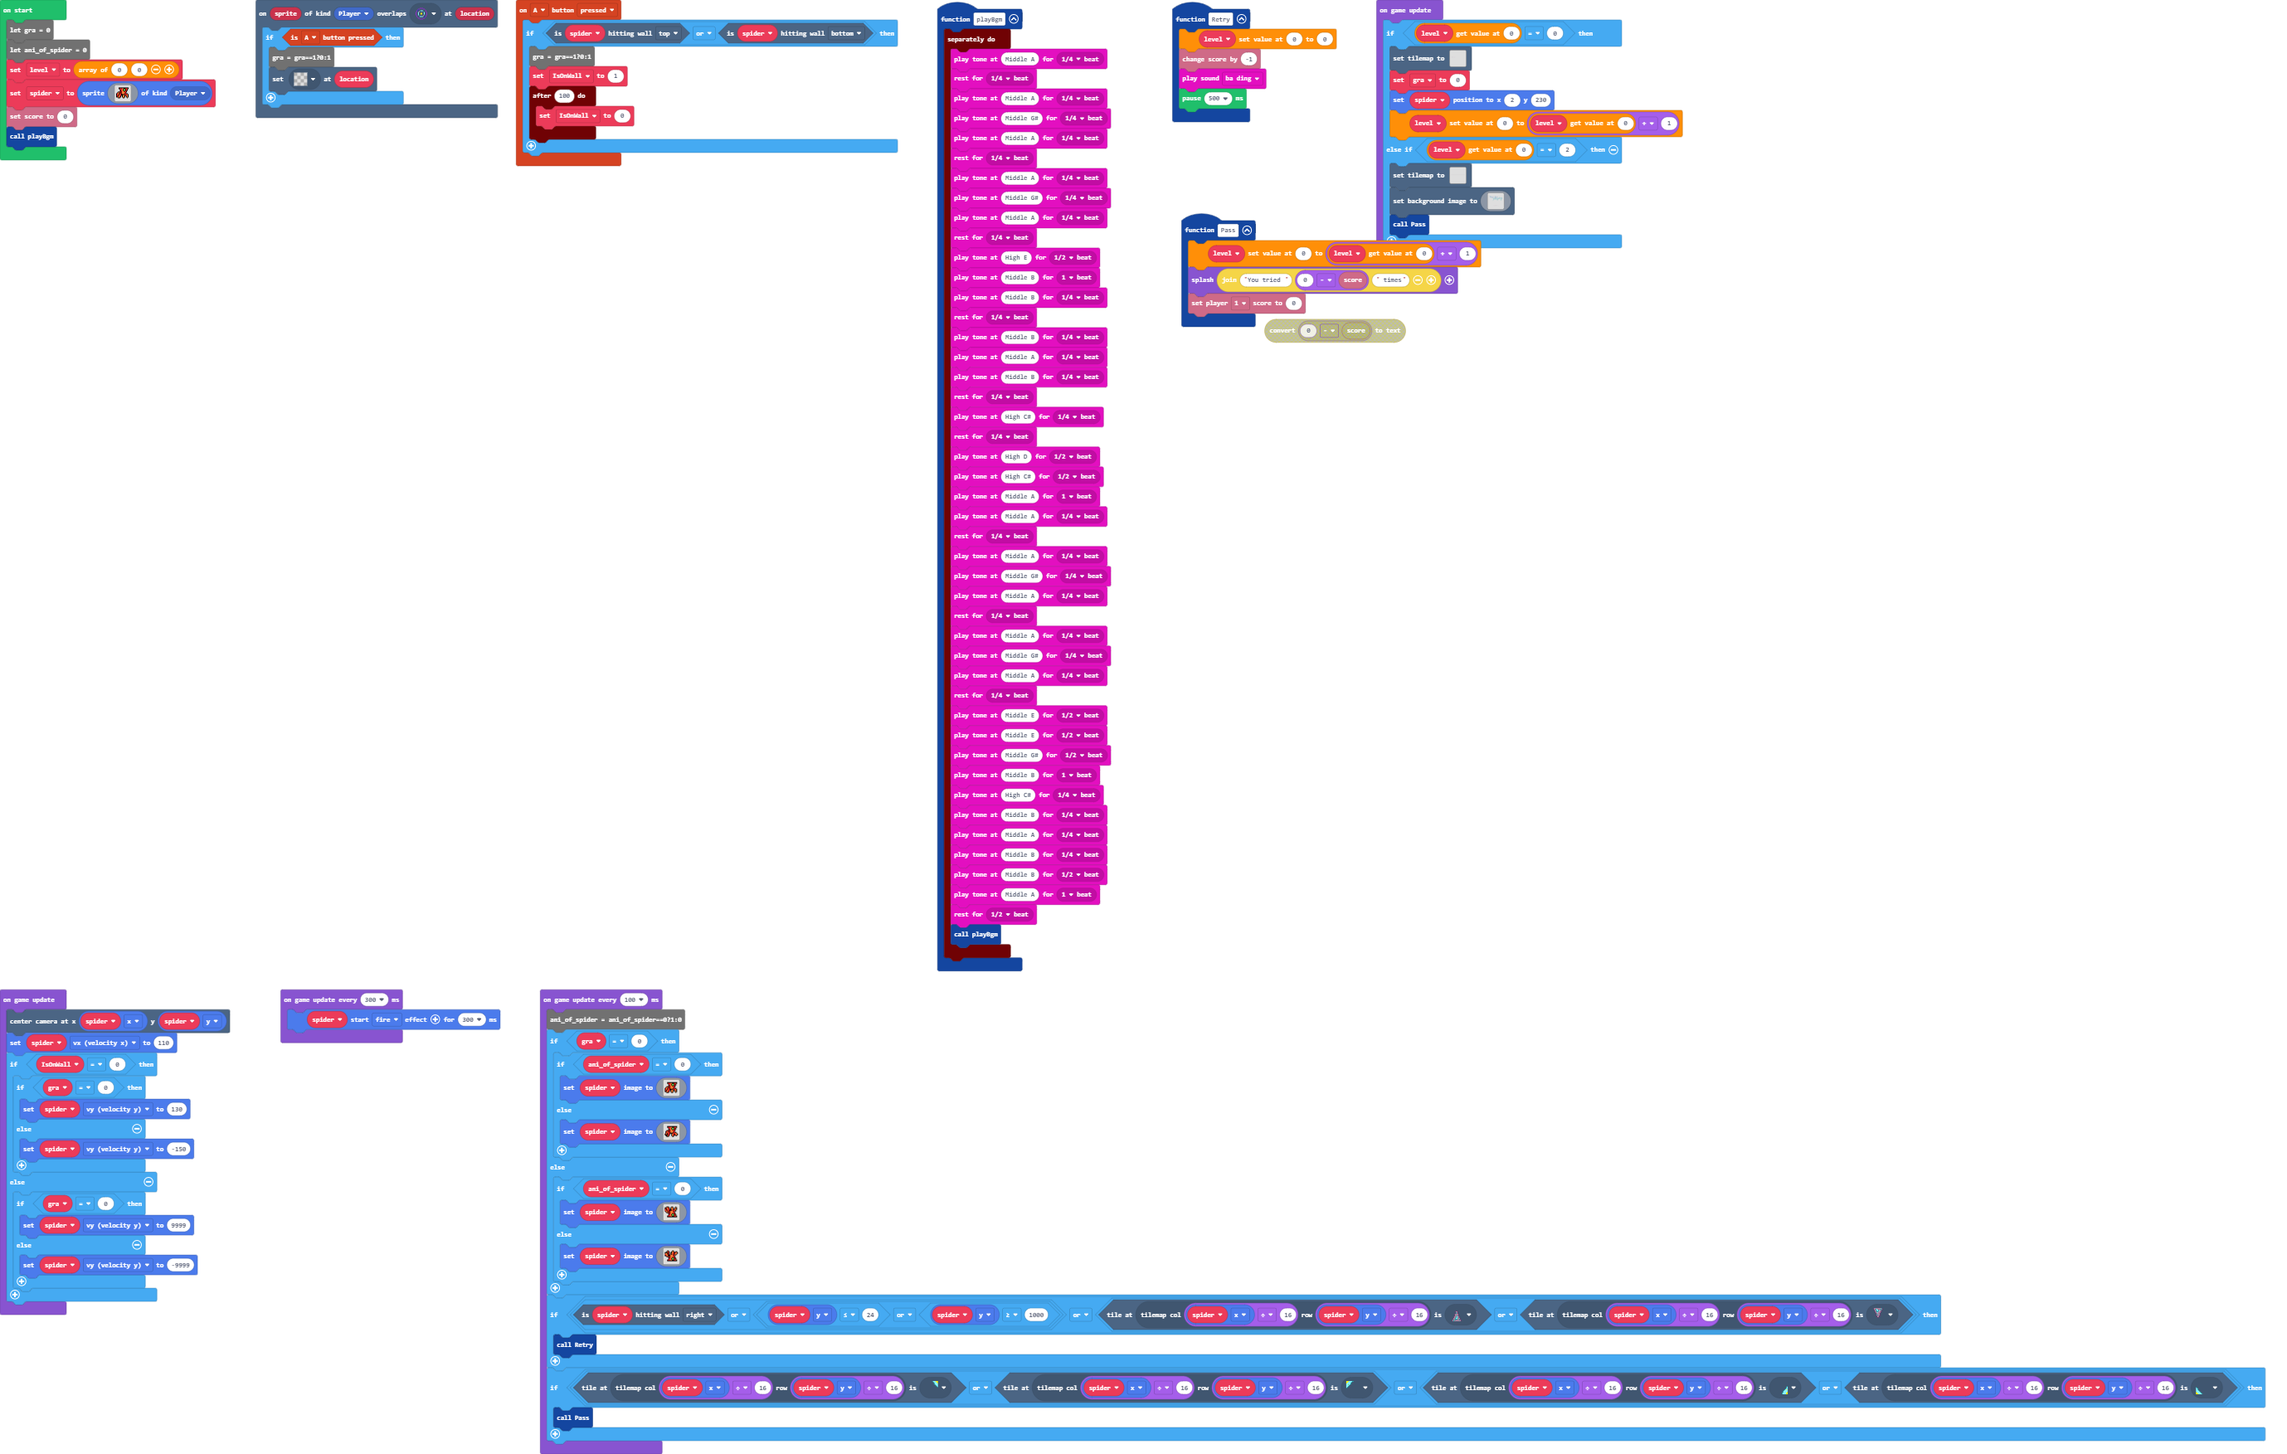
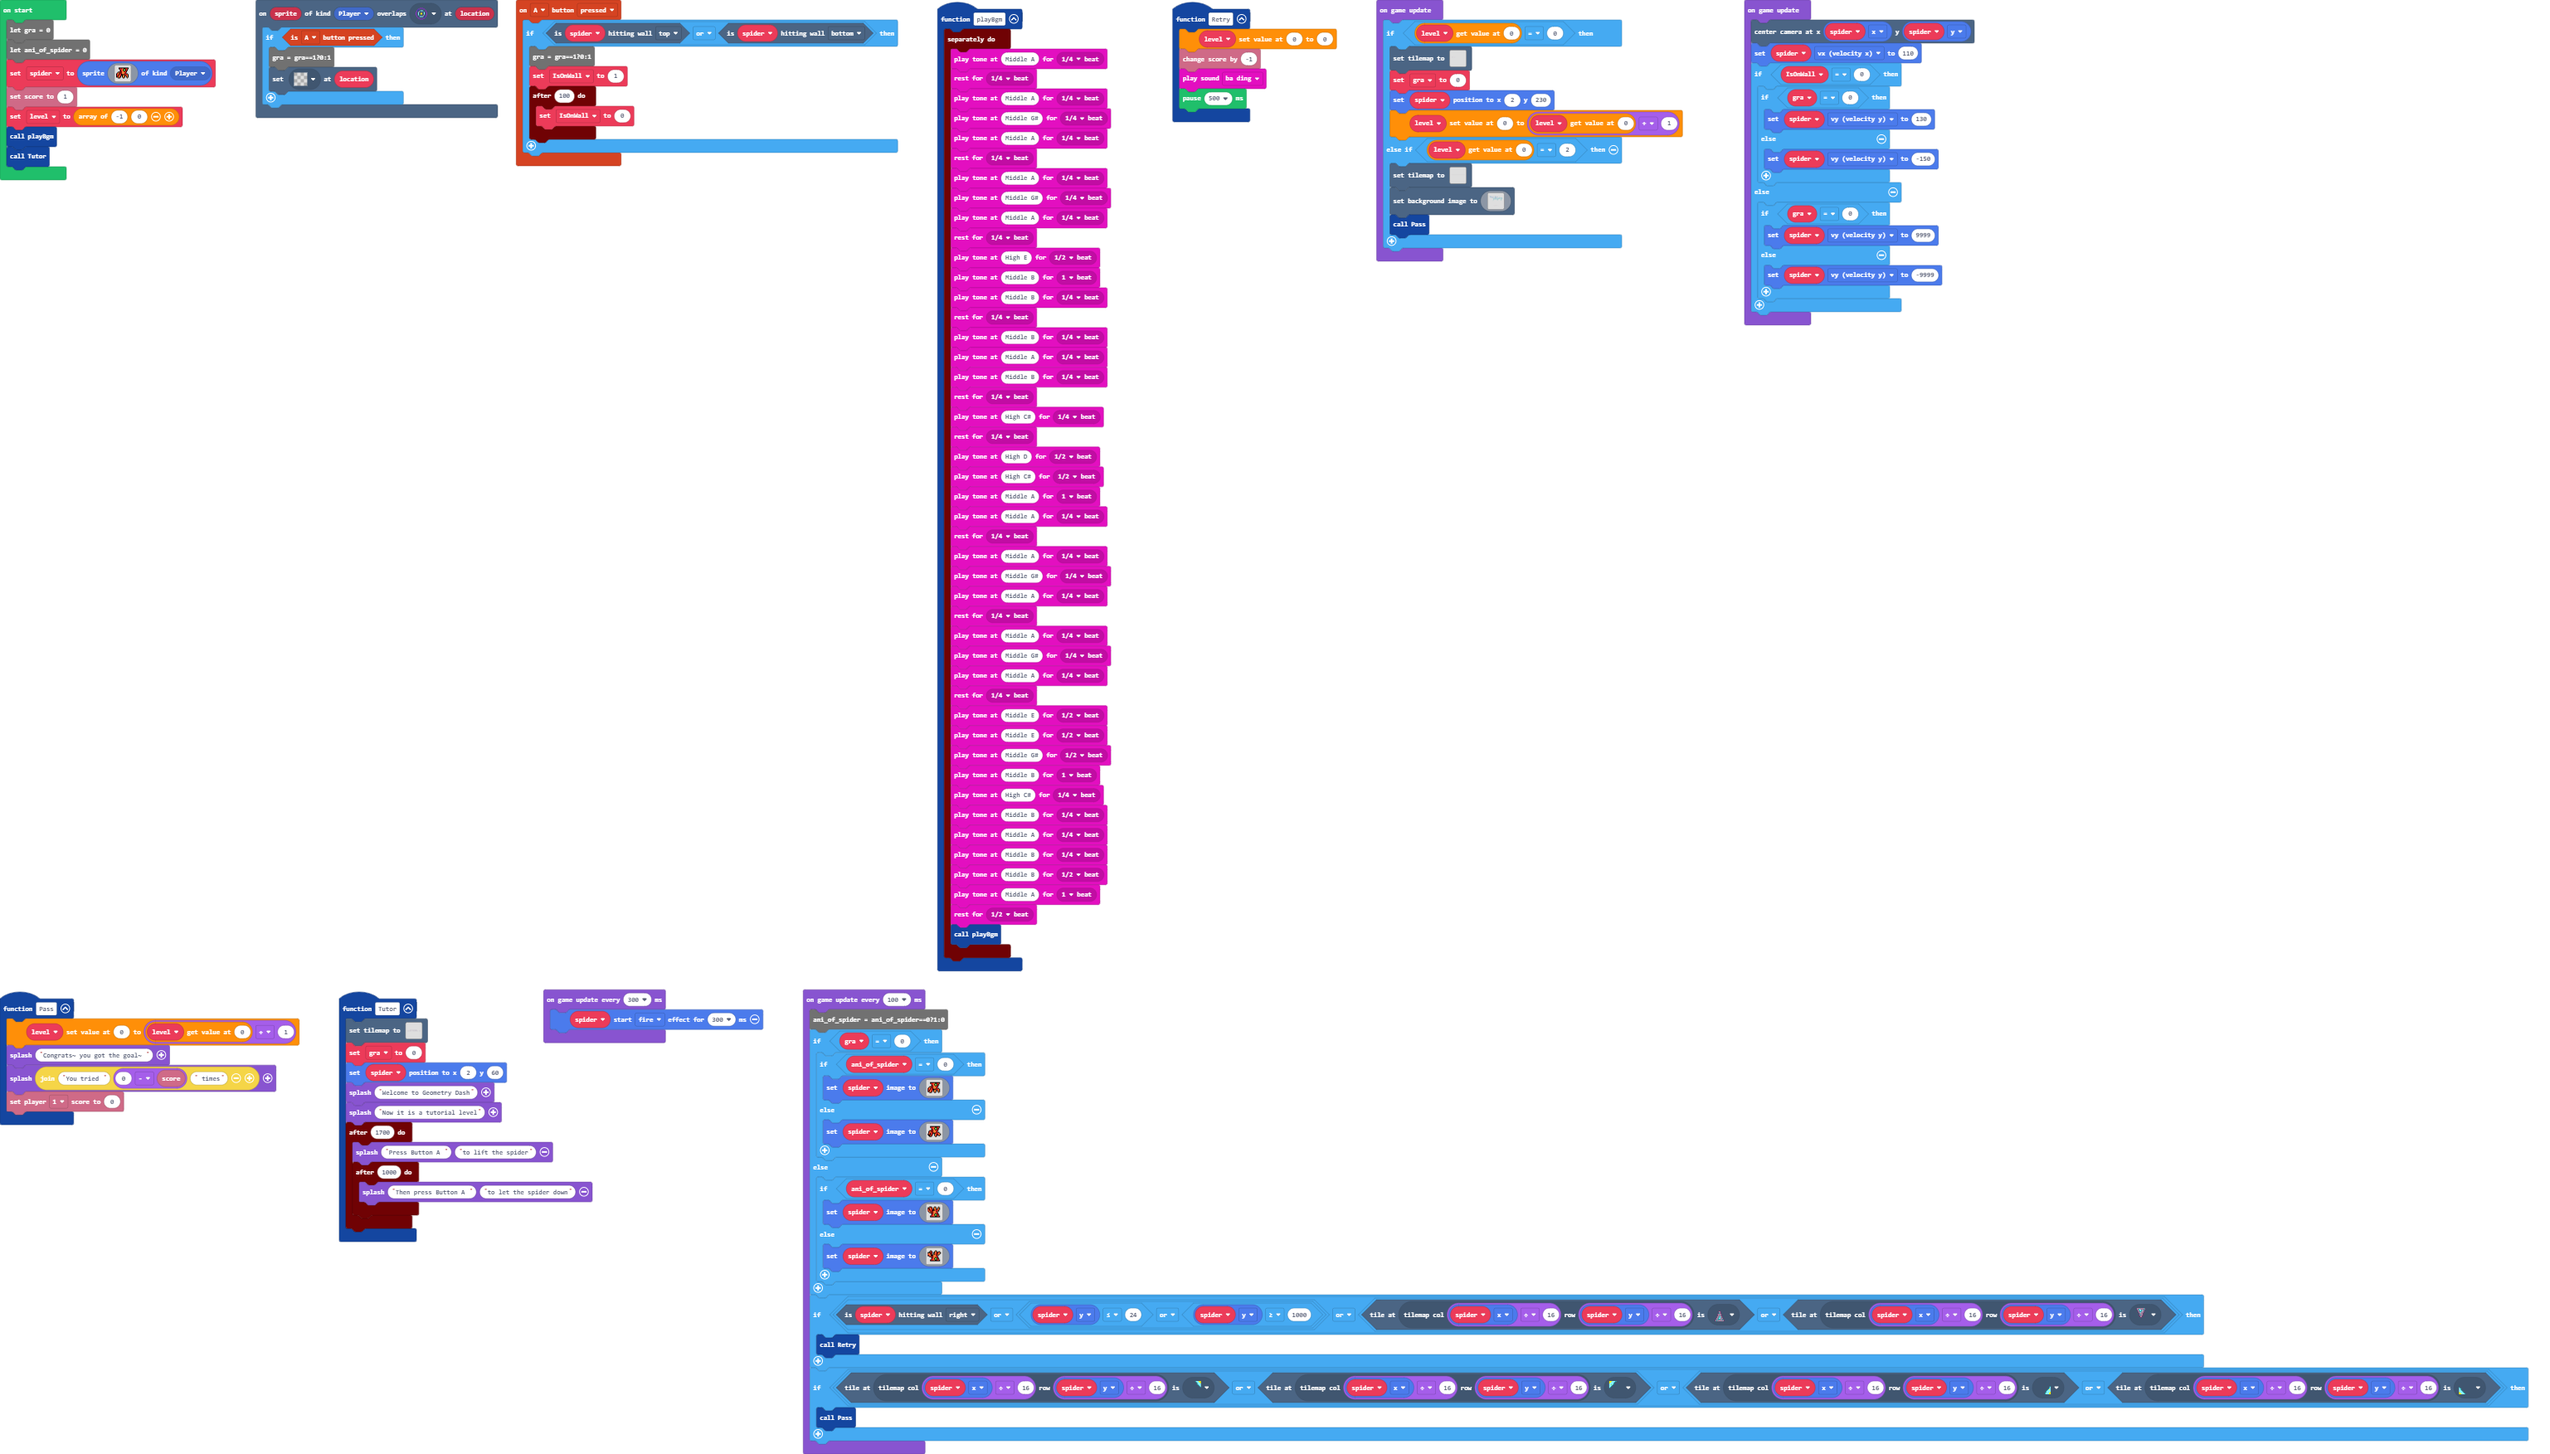
tutorial_test

Changed region(s): [[0.0, 0.0, 0.967, 1.0]]

diff --git a/tilemap.g.ts b/tilemap.g.ts
@@ -271,6 +271,24 @@ namespace myTiles {
 ...............................................................................................................................................................................................................................................................
 ...............................................................................................................................................................................................................................................................
 `, [myTiles.transparency16,sprites.dungeon.darkGroundSouth,myTiles.tile6,myTiles.tile7], TileScale.Sixteen)
+            case "level_4": return tiles.createTilemap(hex`4000100000000000000000000000000000000000000000000000000000000000000000000000000000000000000000000000000000000000000000000000000000000000000000000000000000000000000000000000000000000000000000000000000000000000000000000000000000000000000000000000000000000000000000000000000000000000000000000000000000000000000000000000000000000000000000000000000000000000000000000000000000000000000000000000000000000000000000000000000000000000000000000000000000000000000000000000000000000000000000000000000000000000000000000000000000000000000000000000000000000000020202020202020202020202020202020202020202020202020202020202020202020200000000000000000000000000000000000000000000000000000000000000000000000000000000000000000000000000000000000000000000000000000000000000000000000000000000000000000000000000000000000000000000000000000000000000000000000000000000000000000000000000000000000000000000000000000000000000000000000000000000000000000000000000000000000000000000000000000000000000000000000000000000000003030000000000000000000000000000000000000000000101010101010101010101010101010101010101000000000001010101010101010101010101010101010101010101010101010100000000010101010101010100000000000000000000000000000000000000000000000000000000000000000000000000000000000000000000000000000000000000000000000000000000000000000000000000000000000000000000000000000000000000000000000000000000000000000000000000000000000000000000000000000000000000000000000000000000000000000000000000000000000000000000000000000000000000000000000000000000000000000000000000000000000000000000000000000000000000000000000000000000000000000000000000000000000000000000000000000000000000000000000000000000000000000000000000000000000000000000000000000000000000000000000000000000000000000000000000000000000000000000000000000000000000000000000000000000000000000000000000000000000000000000000000000000000000000000000000000000000000000000000000000000000000000000000000000000000000000000000000000000000000000000000000000000000000000000000000000000000000000000000000000000000000000000000000000000000000000000000000000000`, img`
+................................................................
+................................................................
+................................................................
+................................................................
+............22222222222222222222222222222222222.................
+................................................................
+................................................................
+................................................................
+22222222222222222222.....222222222222222222222222222....22222222
+................................................................
+................................................................
+................................................................
+................................................................
+................................................................
+................................................................
+................................................................
+`, [myTiles.transparency16,sprites.dungeon.darkGroundSouth,sprites.dungeon.darkGroundNorth,myTiles.tile3], TileScale.Sixteen)
         }
         return null;
     })

diff --git a/main.ts b/main.ts
@@ -15,8 +15,22 @@ IsOnWall = 1
 })
 function Pass () {
     level[0] = level[0] + 1
+    game.splash("Congrats~ you got the goal~ ")
     game.splash("You tried " + (0 - info.score()) + " times")
     info.player1.setScore(0)
+}
+function Tutor () {
+    tiles.setTilemap(tilemap`level_4`)
+    gra = 0
+    spider.setPosition(2, 60)
+    game.splash("Welcome to Geometry Dash")
+    game.splash("Now it is a tutorial level")
+    timer.after(1700, function () {
+        game.splash("Press Button A ", "to lift the spider")
+        timer.after(1000, function () {
+            game.splash("Then press Button A ", "to let the spider down")
+        })
+    })
 }
 function playBgm () {
     timer.background(function () {
@@ -74,11 +88,10 @@ function Retry () {
     pause(500)
 }
 let IsOnWall = 0
-let spider: Sprite = null
 let level: number[] = []
+let spider: Sprite = null
 let gra = 0
 let ani_of_spider = 0
-level = [0, 0]
 spider = sprites.create(img`
     . . . . . . . . . . . . . . . . 
     . . . f f f f f f f f f f f f . 
@@ -97,8 +110,10 @@ spider = sprites.create(img`
     . . . . . . . . . . . . . . . . 
     . . . . . . . . . . . . . . . . 
     `, SpriteKind.Player)
-info.setScore(0)
+info.setScore(1)
+level = [-1, 0]
 playBgm()
+Tutor()
 game.onUpdate(function () {
     if (level[0] == 0) {
         tiles.setTilemap(tilemap`level_2`)
